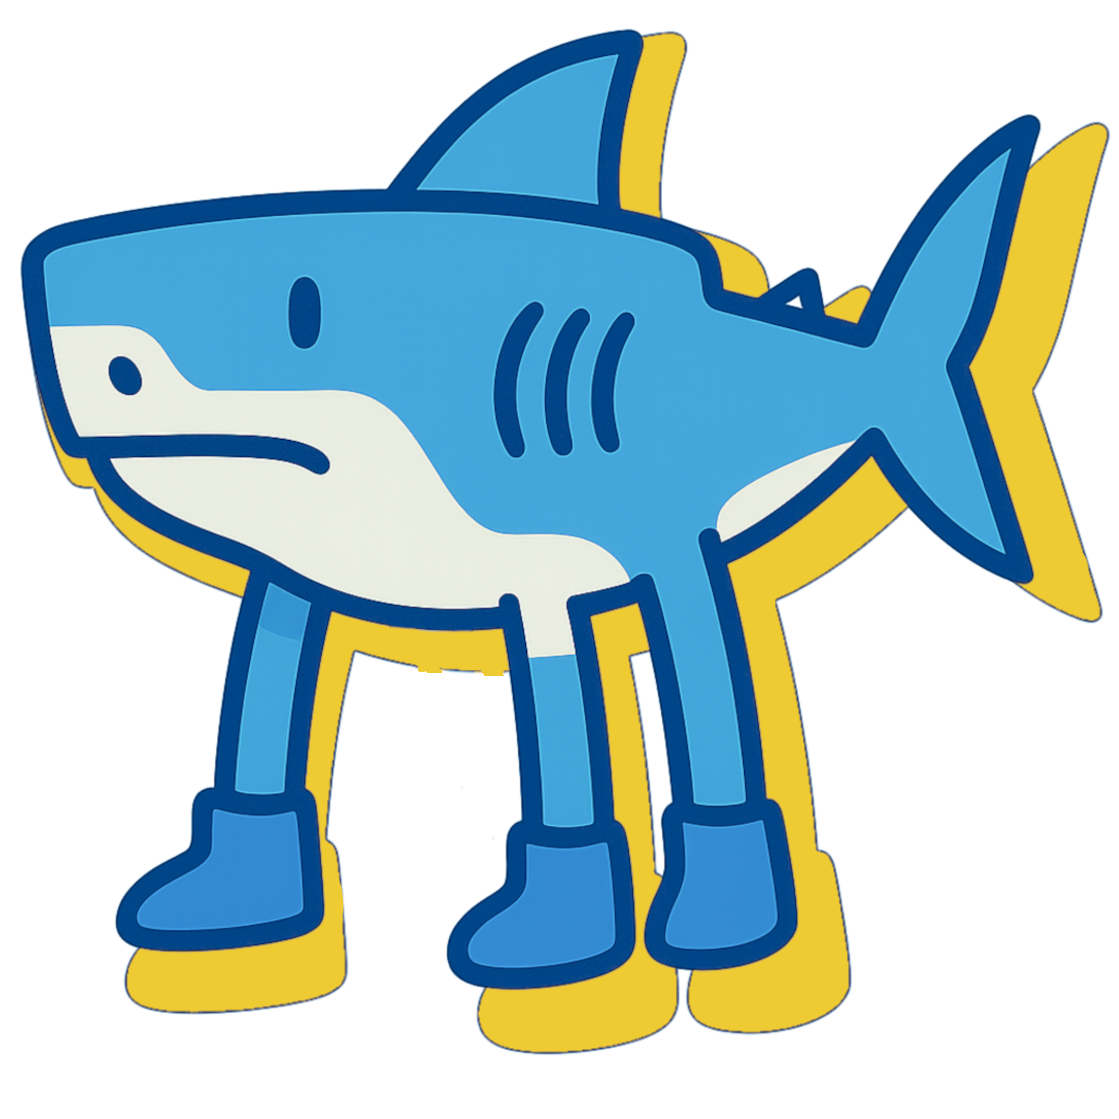
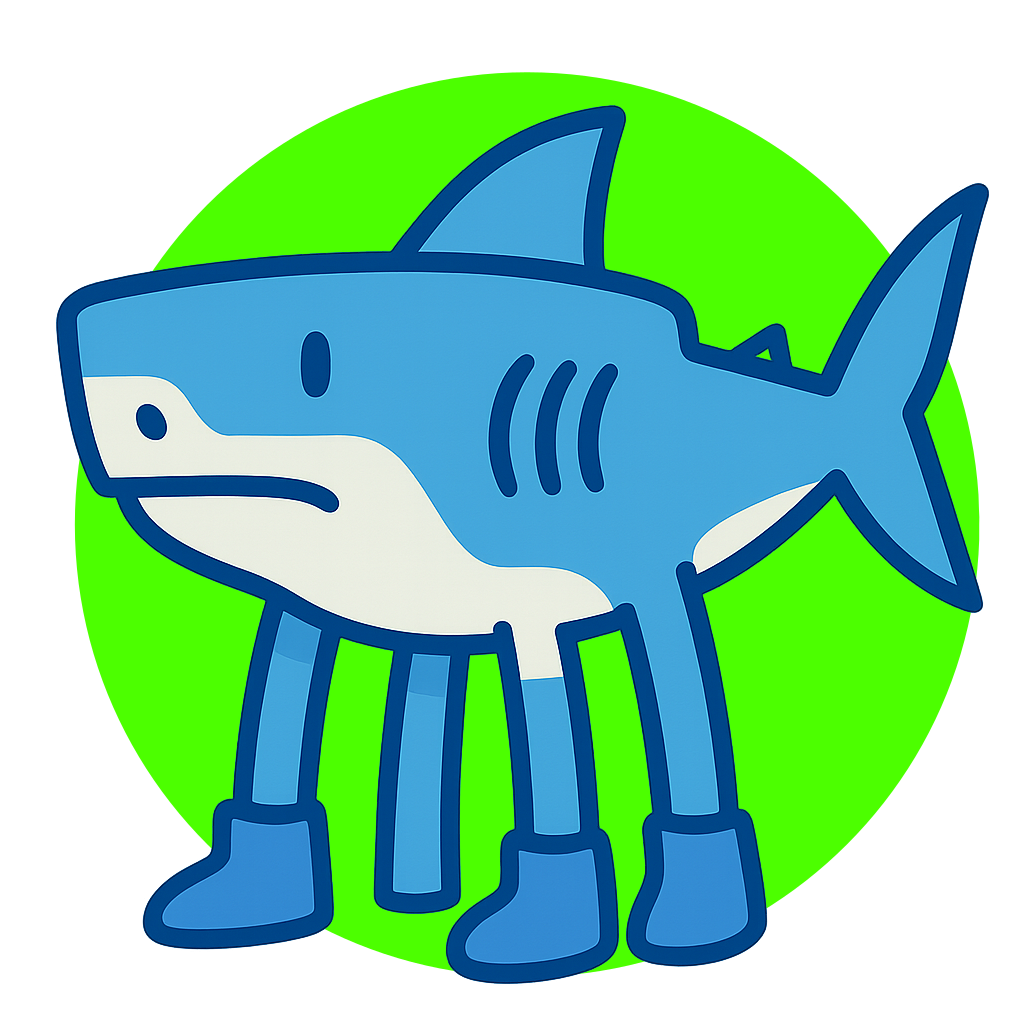
add colorbutton115

diff --git a/script.js b/script.js
@@ -116,51 +116,54 @@ images.forEach((imgObj) => {
 });
 
 // ========== 選択エリア描画（画像→帯→縁=outline の順 / 縁は画像外側） ==========
+// ========== 選択エリア描画 ==========
 function renderSelected() {
   selectedWrappers.forEach((wrapper, idx) => {
     wrapper.innerHTML = '';
     const imgObj = selectedImages[idx];
 
     if (imgObj) {
+      // 画像と帯を含むコンテナ
       const box = document.createElement('div');
       box.className = 'imgbox imgbox--selected';
-      attachPressFeedbackBox(box); // ← 枠ごと縮小でスマホでも綺麗
 
-      // 画像（最下）
+      // 画像本体
       const img = document.createElement('img');
       img.src = imgObj.src;
       img.className = 'selected-img';
-      // 画像自体にはボーダーを当てない（数字帯や押下でズレる問題を避ける）
-      img.style.border = "0 solid transparent";
+      img.style.objectFit = 'cover'; // ← 縁と画像の間に隙間を作らない
+      const color = selectedColors[idx] || 'Default'; // ← 既定でDefaultに
+      selectedColors[idx] = color; // ← 自動的にDefault状態に設定
+      img.style.outline = `3px solid ${getButtonColor(color)}`; // ← Default縁を追加
+
       img.addEventListener('click', () => removeFromSelected(idx));
       box.appendChild(img);
 
-      // 数値帯（中）
+      // 値ラベル（黒帯＋黄色文字＋単位 K/s）
       const label = document.createElement('div');
       label.textContent = `${imgObj.value} K/s`;
       label.className = 'value-label';
       box.appendChild(label);
 
-      // 縁（外側 / outlineで画像の外につける → 数字に被らない）
-      applyOutline(box, idx);
-
-      // DOMに追加
+      // コンテナを枠に追加
       wrapper.appendChild(box);
 
-      // ボタン群（このスロットだけ更新）
+      // ボタン群
       const btnContainer = document.createElement('div');
       btnContainer.className = 'button-container';
       ['Default', 'Gold', 'Diamond', 'Rainbow', 'Halloween', 'Other'].forEach(type => {
         const btn = document.createElement('button');
         btn.textContent = type;
         btn.className = type;
+
+        // 押下イベント：縁色変更＆確率再計算
         btn.addEventListener('click', (e) => {
           e.stopPropagation();
-          selectedColors[idx]  = type;     // ← この idx だけ更新
-          selectedHasBorder[idx] = true;    // ← 枠を表示
-          applyOutline(box, idx);           // ← 見た目即時反映（外枠）
-          updateAll();                      // ← 計算更新
+          selectedColors[idx] = type;
+          img.style.outline = `3px solid ${getButtonColor(type)}`;
+          updateAll();
         });
+
         btnContainer.appendChild(btn);
       });
       wrapper.appendChild(btnContainer);
@@ -169,13 +172,12 @@ function renderSelected() {
       // 未選択時のプレースホルダ
       const ph = document.createElement('div');
       ph.className = 'imgbox imgbox--selected';
-      // 縁は表示しない
-      ph.style.outline = 'none';
       ph.style.backgroundColor = '#555';
       wrapper.appendChild(ph);
     }
   });
 }
+
 
 // 画像外側の枠（outline）を適用
 function applyOutline(boxEl, idx){

diff --git a/style.css b/style.css
@@ -275,10 +275,17 @@ button.Other{ background:#ddd; }
     transition:filter 0.1s ease;
   }
 
-  .selected-img{
-    position:relative;
-    z-index:3;
-  }
+ .selected-img {
+  width: 100%;
+  height: 100%;
+  object-fit: cover; /* ← contain → cover に変更 */
+  display: block;
+  box-sizing: border-box;
+  cursor: pointer;
+  transition: filter 0.1s ease, border 0.2s ease;
+  z-index: 1;
+}
+
 
   .gallery-img,
   .selected-img {
